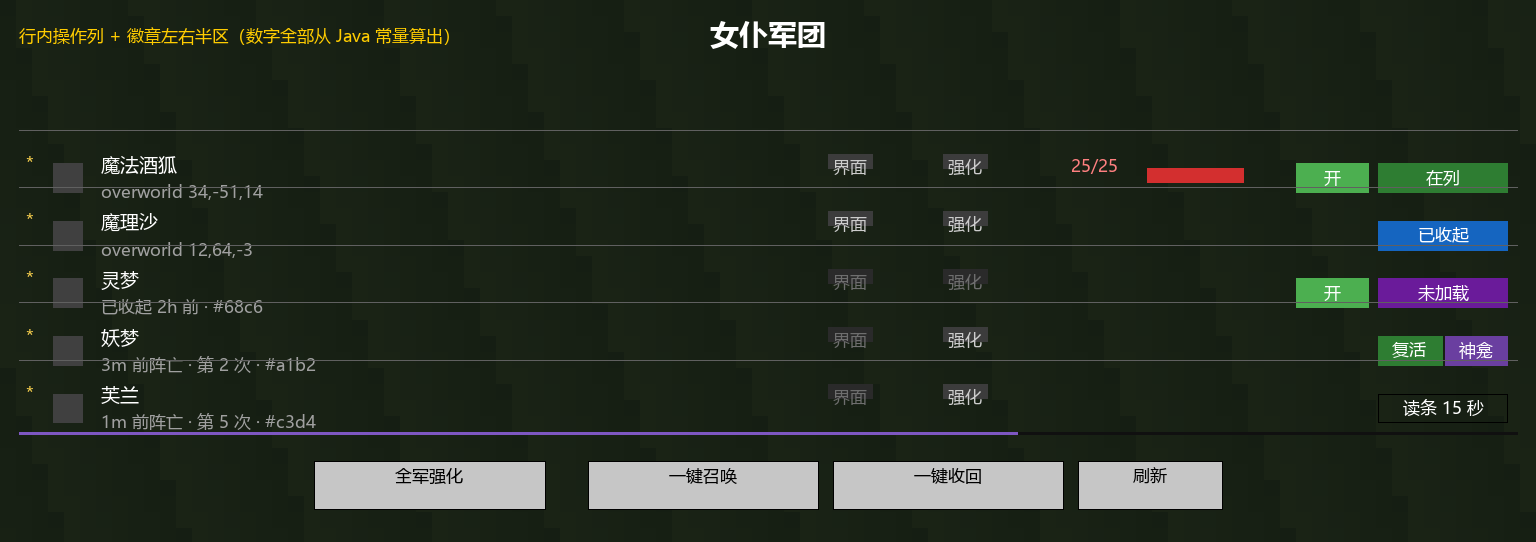
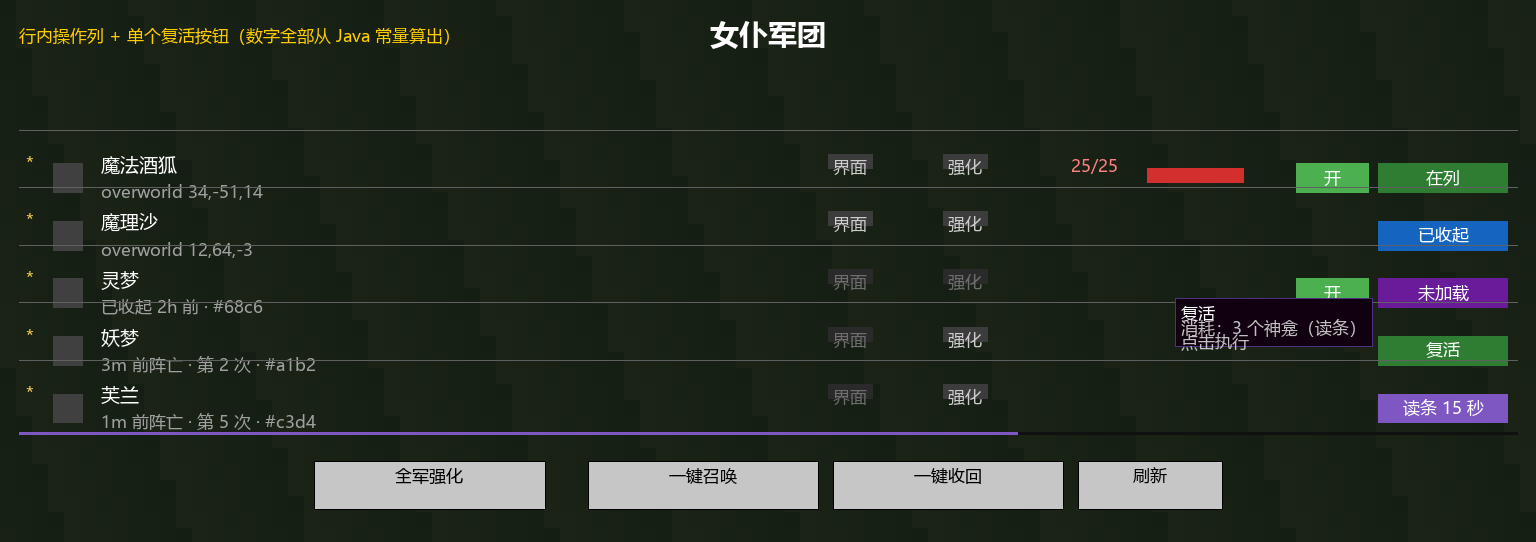
1.3.0: make the shrine revive a bought, switchable ability instead of a per-row choice
Per the design decision: the two revive routes are now a mode, not two buttons.

SHRINE_REVIVE is a new legion ability (100 P). While it is bought and switched
on, reviving spends three shrines and channels; switched off - or never bought -
reviving goes back to the material list and is instant. The routes never mix, so
there is no 'spend materials to shorten the cast', which was asked for and
dropped: the casts are three to thirty seconds, and a second currency for them
would only add a way to misjudge the price.

Appended last in the enum on purpose. Ability state travels as an array indexed
by ordinal, so inserting anywhere earlier would silently re-point every existing
save's abilities at the wrong entry.

The route is now chosen server-side from the bought ability, and the client no
longer sends a flag: the two routes cost very different things, so a crafted
packet must not be able to pick the cheaper one. The client still reads the
ability to show the matching price in the tooltip.

The badge is therefore a single revive button again, and the preview was
regenerated because the split badge it showed no longer exists. 133 tests.

Changed region(s): [[0.75, 0.5314, 1.0, 0.679], [0.875, 0.7085, 1.0, 0.797], [0.0625, 0.0295, 0.1562, 0.0886]]

diff --git a/src/main/java/com/dsh/maidmanager/client/MaidManagerScreen.java b/src/main/java/com/dsh/maidmanager/client/MaidManagerScreen.java
@@ -385,11 +385,14 @@ public class MaidManagerScreen extends Screen {
      * <p>A channelling revival shows its remaining time here rather than as a bare "fallen": the
      * wait is the whole point of that route, so it is what the player wants to see.
      */
-    private Component badgeLabel(MaidEntry entry) {
+    private Component badgeLabel(MaidEntry entry, boolean showRevive) {
         if (entry.castingRevive()) {
             long now = this.minecraft.level == null ? 0L : this.minecraft.level.getGameTime();
             int seconds = Math.round(entry.reviveCastRemaining(now) / 20.0F);
             return Component.translatable("gui.touhou_maid_legion.cast.remaining", seconds);
+        }
+        if (showRevive) {
+            return Component.translatable("gui.touhou_maid_legion.revive");
         }
         return Component.translatable(entry.state.translationKey());
     }
@@ -548,43 +551,33 @@ public class MaidManagerScreen extends Screen {
         // A fallen maid's badge carries both revive routes, split left/right while hovered. That
         // keeps the row layout unchanged - no extra column - and puts both prices where the
         // revive already lived, rather than in a second widget somewhere else on the row.
-        boolean splitBadge = revivable && !casting && badgeHovered;
+        boolean showRevive = revivable && !casting && badgeHovered;
+        // Which route the click will take is a bought, switchable ability, so the row only ever
+        // offers one revive button - it shows the price of whichever route is currently active.
+        boolean shrineRoute = showRevive && ClientPayloadHandlers.progression()
+                .isEnabled(com.dsh.maidmanager.logic.GlobalUpgrade.SHRINE_REVIVE);
         int badgeColor = switch (entry.state) {
             case PRESENT -> 0xFF2E7D32;
             case STORED -> 0xFF1565C0;
             case UNLOADED -> 0xFF6A1B9A;
             // Red-grey: visibly different from the three live states at a glance, without
             // competing with the health bar's red for attention.
-            case DEAD -> casting ? 0xFF7E57C2 : (splitBadge ? 0xFF2E7D32 : 0xFF8E2424);
+            case DEAD -> casting ? 0xFF7E57C2 : (showRevive ? 0xFF2E7D32 : 0xFF8E2424);
         };
+        graphics.fill(badgeX, y + 6, badgeX + BADGE_W, y + 18, badgeColor);
+        graphics.drawCenteredString(this.font, badgeLabel(entry, showRevive),
+                badgeX + BADGE_W / 2, y + 8, 0xFFFFFFFF);
 
-        if (splitBadge) {
-            int half = BADGE_W / 2;
-            graphics.fill(badgeX, y + 6, badgeX + half, y + 18, 0xFF2E7D32);
-            graphics.fill(badgeX + half + 1, y + 6, badgeX + BADGE_W, y + 18, 0xFF6A3FA0);
-            graphics.drawCenteredString(this.font,
-                    Component.translatable("gui.touhou_maid_legion.revive"),
-                    badgeX + half / 2, y + 8, 0xFFFFFFFF);
-            graphics.drawCenteredString(this.font,
-                    Component.translatable("gui.touhou_maid_legion.revive.shrine"),
-                    badgeX + half + 1 + half / 2, y + 8, 0xFFFFFFFF);
-        } else {
-            graphics.fill(badgeX, y + 6, badgeX + BADGE_W, y + 18, badgeColor);
-            graphics.drawCenteredString(this.font, badgeLabel(entry), badgeX + BADGE_W / 2, y + 8,
-                    0xFFFFFFFF);
-        }
-
-        if (splitBadge) {
-            // Both prices, before the click: one spends real materials, the other three shrines
-            // and a wait.
+        if (showRevive) {
+            // Say what it costs before the click, since both routes spend something real.
             List<Component> tip = new ArrayList<>();
             tip.add(Component.translatable("gui.touhou_maid_legion.revive.tooltip.title")
                     .withStyle(ChatFormatting.BOLD));
-            tip.add(Component.translatable("gui.touhou_maid_legion.revive.tooltip.materials"));
+            tip.add(shrineRoute
+                    ? Component.translatable("gui.touhou_maid_legion.revive.tooltip.shrine",
+                    com.dsh.maidmanager.logic.MaidManagerService.SHRINE_REVIVE_COST)
+                    : Component.translatable("gui.touhou_maid_legion.revive.tooltip.materials"));
             tip.add(Component.translatable("gui.touhou_maid_legion.revive.tooltip.click"));
-            tip.add(Component.empty());
-            tip.add(Component.translatable("gui.touhou_maid_legion.revive.shrine.tooltip",
-                    com.dsh.maidmanager.logic.MaidManagerService.SHRINE_REVIVE_COST));
             this.pendingTooltip = tip;
             this.pendingTooltipX = mouseX;
             this.pendingTooltipY = mouseY;
@@ -826,12 +819,8 @@ public class MaidManagerScreen extends Screen {
             return true;
         }
         if (row.entry.revivable() && mouseX >= badgeX && mouseX <= badgeX + BADGE_W) {
-            if (mouseX >= badgeX + BADGE_W / 2) {
-                // Right half: the shrine route, which costs shrines and makes her wait.
-                NetworkHandler.CHANNEL.sendToServer(
-                        new com.dsh.maidmanager.network.C2SReviveMaidPacket(row.entry.id, true));
-                return true;
-            }
+            // No route flag: the server consults the player's ability and decides. The client is
+            // not trusted to pick, since the two routes cost very different things.
             reviveOne(row.entry);
             return true;
         }

diff --git a/src/main/java/com/dsh/maidmanager/network/C2SReviveMaidPacket.java b/src/main/java/com/dsh/maidmanager/network/C2SReviveMaidPacket.java
@@ -1,6 +1,7 @@
 package com.dsh.maidmanager.network;
 
 import com.dsh.maidmanager.logic.MaidManagerService;
+import com.dsh.maidmanager.logic.MaidProgressionService;
 import net.minecraft.network.FriendlyByteBuf;
 import net.minecraft.network.chat.Component;
 import net.minecraft.server.level.ServerPlayer;
@@ -10,11 +11,11 @@ import java.util.UUID;
 import java.util.function.Supplier;
 
 /**
- * Client -&gt; server: revive one dead maid, paying the altar's material list.
+ * Client -&gt; server: revive one dead maid.
  *
- * <p>Only the maid id crosses the wire. Ownership, enrolment, the death record and the
- * materials are all re-checked server-side, so a crafted packet can neither revive someone
- * else's maid nor skip the cost.
+ * <p>Only the maid id crosses the wire. Ownership, enrolment, the death record, the route and
+ * whatever that route costs are all re-checked server-side, so a crafted packet can neither
+ * revive someone else's maid nor skip the cost.
  *
  * <p>1.20 note: Forge's {@code SimpleChannel} uses static encode/decode/handle methods and a
  * {@code NetworkEvent.Context}; the 1.21 branch uses a {@code CustomPacketPayload} record with
@@ -22,25 +23,17 @@ import java.util.function.Supplier;
  */
 public class C2SReviveMaidPacket {
     private final UUID maidId;
-    /** True for the shrine route: three shrines up front, then a channelled cast. */
-    private final boolean viaShrine;
 
     public C2SReviveMaidPacket(UUID maidId) {
-        this(maidId, false);
-    }
-
-    public C2SReviveMaidPacket(UUID maidId, boolean viaShrine) {
         this.maidId = maidId;
-        this.viaShrine = viaShrine;
     }
 
     public static void encode(C2SReviveMaidPacket msg, FriendlyByteBuf buf) {
         buf.writeUUID(msg.maidId);
-        buf.writeBoolean(msg.viaShrine);
     }
 
     public static C2SReviveMaidPacket decode(FriendlyByteBuf buf) {
-        return new C2SReviveMaidPacket(buf.readUUID(), buf.readBoolean());
+        return new C2SReviveMaidPacket(buf.readUUID());
     }
 
     public static void handle(C2SReviveMaidPacket msg, Supplier<NetworkEvent.Context> ctx) {
@@ -51,7 +44,11 @@ public class C2SReviveMaidPacket {
                 if (sender == null) {
                     return;
                 }
-                MaidManagerService.ReviveResult result = msg.viaShrine
+                // Which route is used is decided here, from the player's bought ability, rather
+                // than being named by the client: a crafted packet must not be able to pick the
+                // cheaper route, and the two routes cost very different things.
+                MaidManagerService.ReviveResult result = MaidProgressionService
+                        .usesShrineRevive(sender)
                         ? MaidManagerService.beginShrineRevive(sender, msg.maidId)
                         : MaidManagerService.beginRevive(sender, msg.maidId);
                 // Report refusals explicitly; a silent no-op looks like a broken button.

diff --git a/src/main/java/com/dsh/maidmanager/logic/GlobalUpgrade.java b/src/main/java/com/dsh/maidmanager/logic/GlobalUpgrade.java
@@ -33,7 +33,16 @@ public enum GlobalUpgrade {
      * While the owner is in creative flight, enrolled maids follow through the air instead of
      * running along the ground. Driven by {@link MaidFlightHandler}.
      */
-    FLIGHT("g_flight", 120, Kind.BEHAVIOR);
+    FLIGHT("g_flight", 120, Kind.BEHAVIOR),
+
+    /**
+     * Switches reviving onto the shrine route: three shrines and a channelled cast, no materials.
+     *
+     * <p>Appended last on purpose. Ability state travels as an array indexed by
+     * {@link #ordinal()}, so inserting anywhere earlier would silently re-point every existing
+     * save's abilities at the wrong entry.
+     */
+    SHRINE_REVIVE("g_shrine", 100, Kind.EVENT);
 
     /** How the ability takes effect, so the service knows what to wire up. */
     public enum Kind {
@@ -90,7 +99,7 @@ public enum GlobalUpgrade {
      * this later is a one-line change.
      */
     public boolean toggleable() {
-        return this == FLIGHT;
+        return this == FLIGHT || this == SHRINE_REVIVE;
     }
 
     public static GlobalUpgrade byId(String id) {

diff --git a/src/main/java/com/dsh/maidmanager/logic/MaidProgressionService.java b/src/main/java/com/dsh/maidmanager/logic/MaidProgressionService.java
@@ -219,6 +219,16 @@ public final class MaidProgressionService {
                 && storage.isAbilityEnabled(player.getUUID(), ability);
     }
 
+    /**
+     * Whether reviving should use the shrine route for this player.
+     *
+     * <p>Both revive routes exist at once; this is the switch between them. It is deliberately
+     * consulted server-side only - the client shows the matching tooltip, but never chooses.
+     */
+    public static boolean usesShrineRevive(ServerPlayer player) {
+        return isAbilityActive(player, GlobalUpgrade.SHRINE_REVIVE);
+    }
+
     /** Flips a toggleable ability's switch. Returns the new state, or false if not owned. */
     public static boolean toggleAbility(ServerPlayer player, GlobalUpgrade ability) {
         MaidProgressStorage storage = MaidProgressStorage.get(player.getServer());
